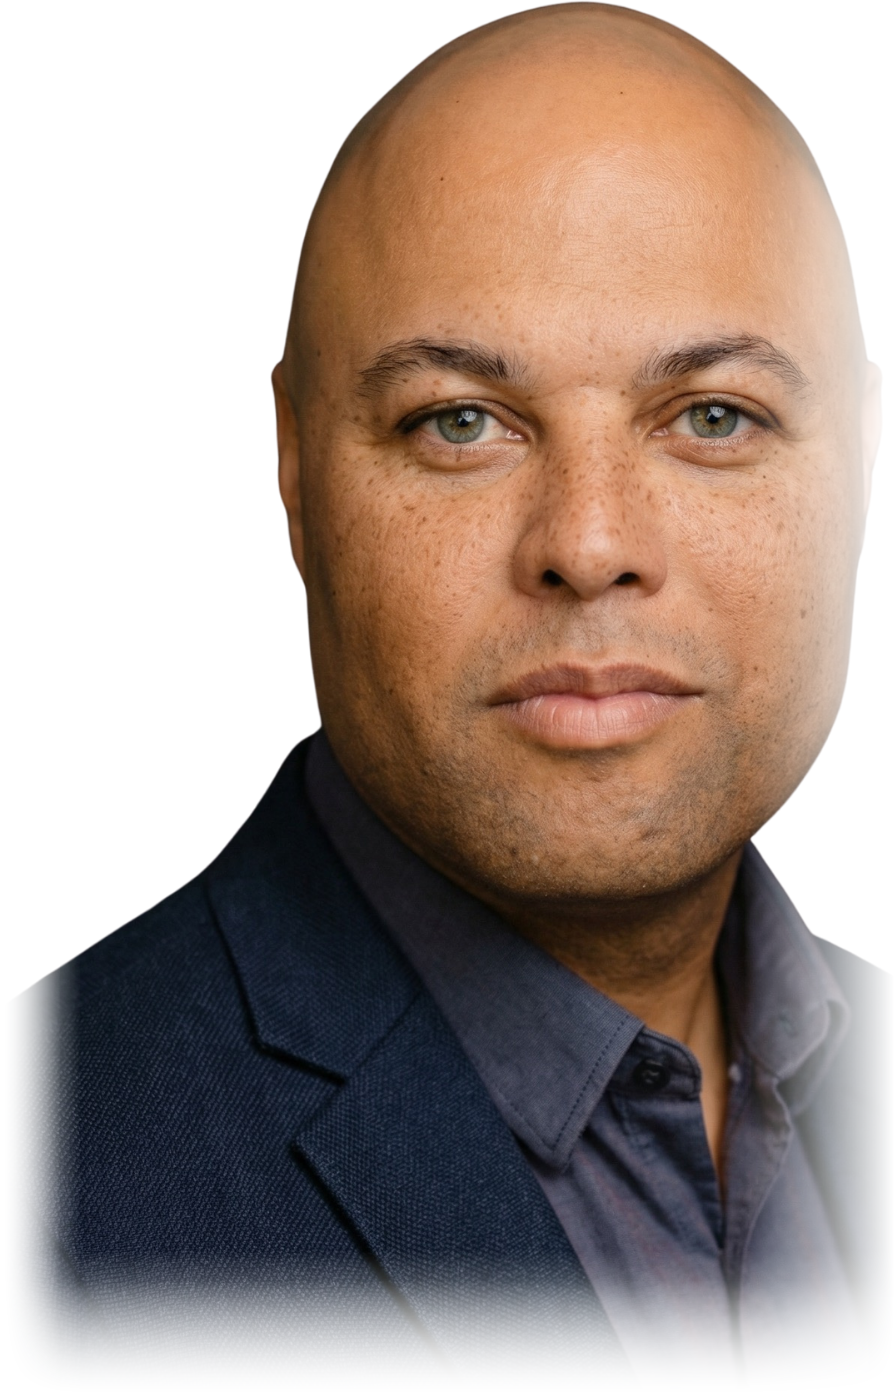
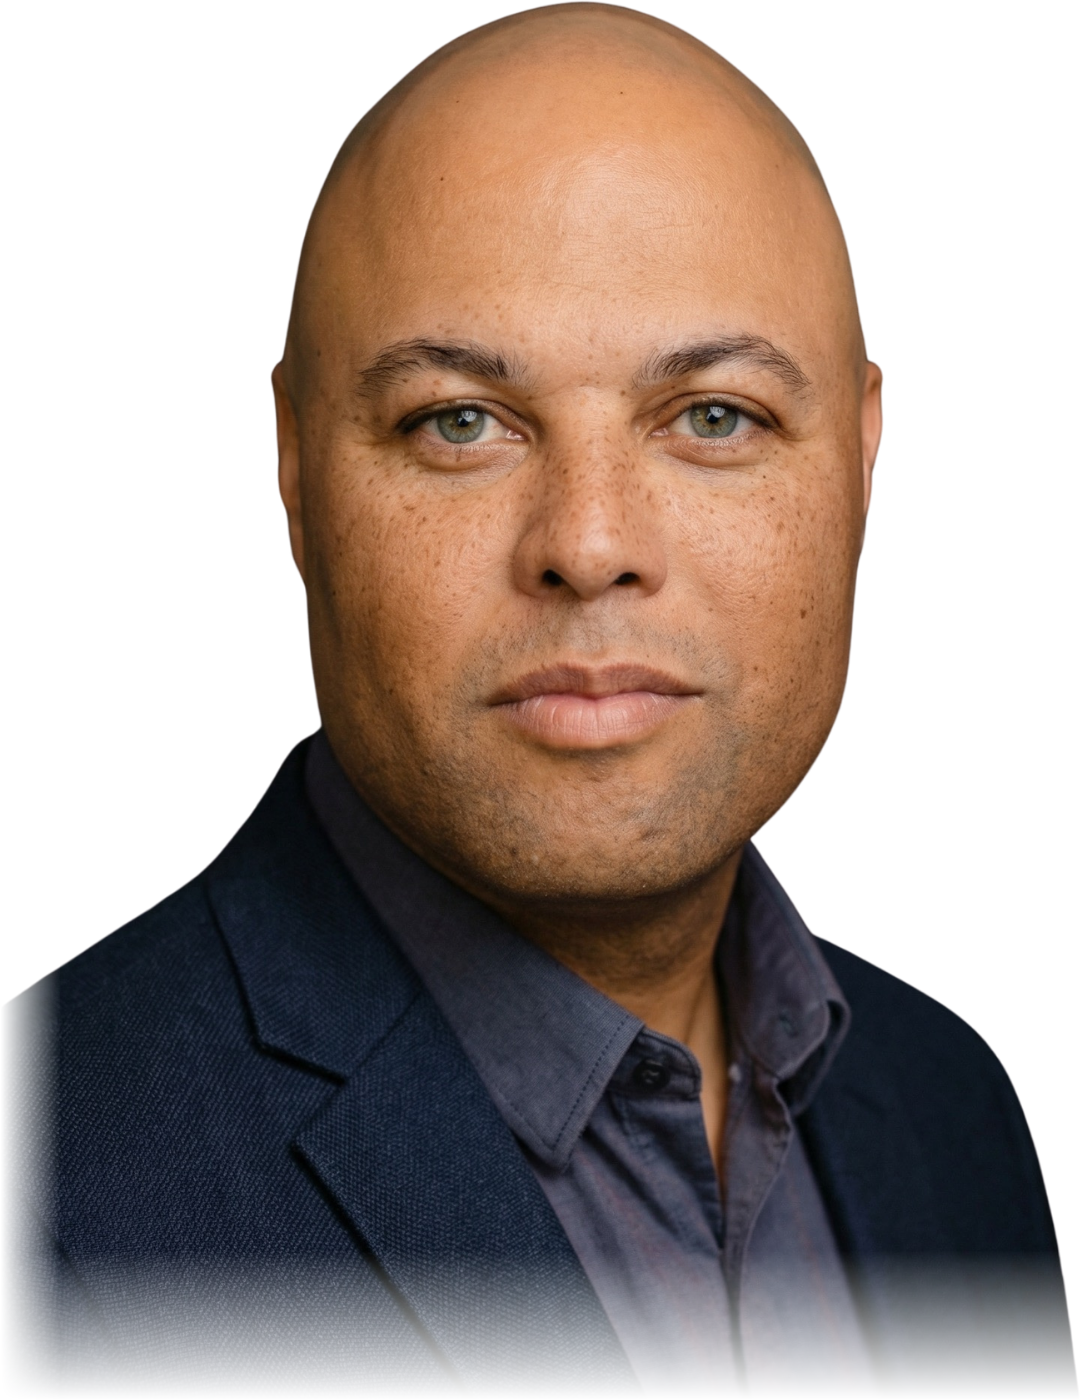
Remove right-side fade from photo, restore full width, balance gap at 12

diff --git a/components/home/AboutSection.tsx b/components/home/AboutSection.tsx
@@ -20,12 +20,12 @@ export default function AboutSection() {
         </div>
 
         {/* ── Photo + Bio ── */}
-        <div className="max-w-[960px] mx-auto grid grid-cols-1 md:grid-cols-[220px_1fr] gap-6 md:gap-8 items-center">
+        <div className="max-w-[960px] mx-auto grid grid-cols-1 md:grid-cols-[260px_1fr] gap-8 md:gap-12 items-center">
           <div className="flex justify-center">
             <img
               src="/images/benjamin-no-bg.png"
               alt="Benjamin Robinson"
-              className="w-full max-w-[220px]"
+              className="w-full max-w-[260px]"
             />
           </div>
           <div className="text-center md:text-left">
